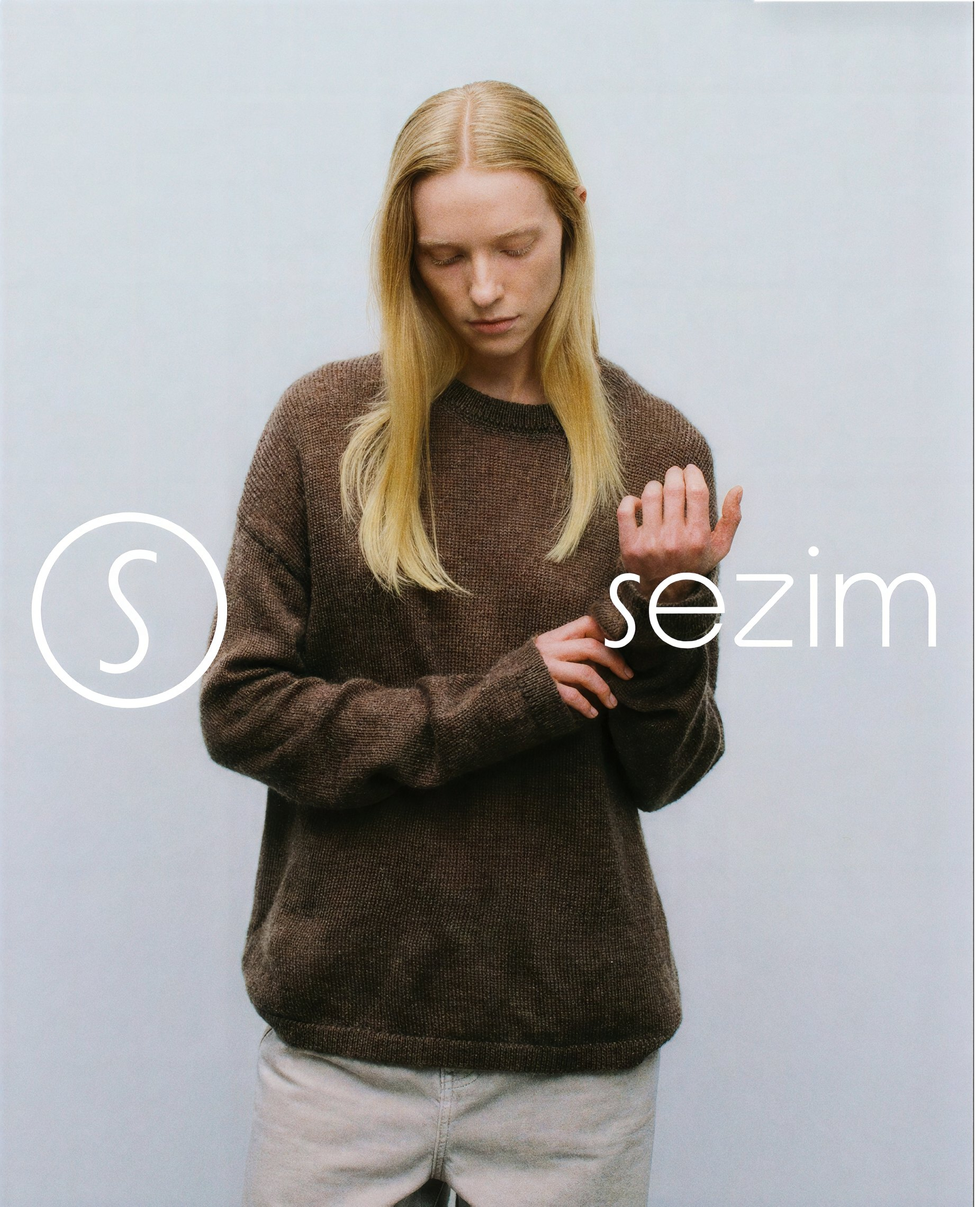
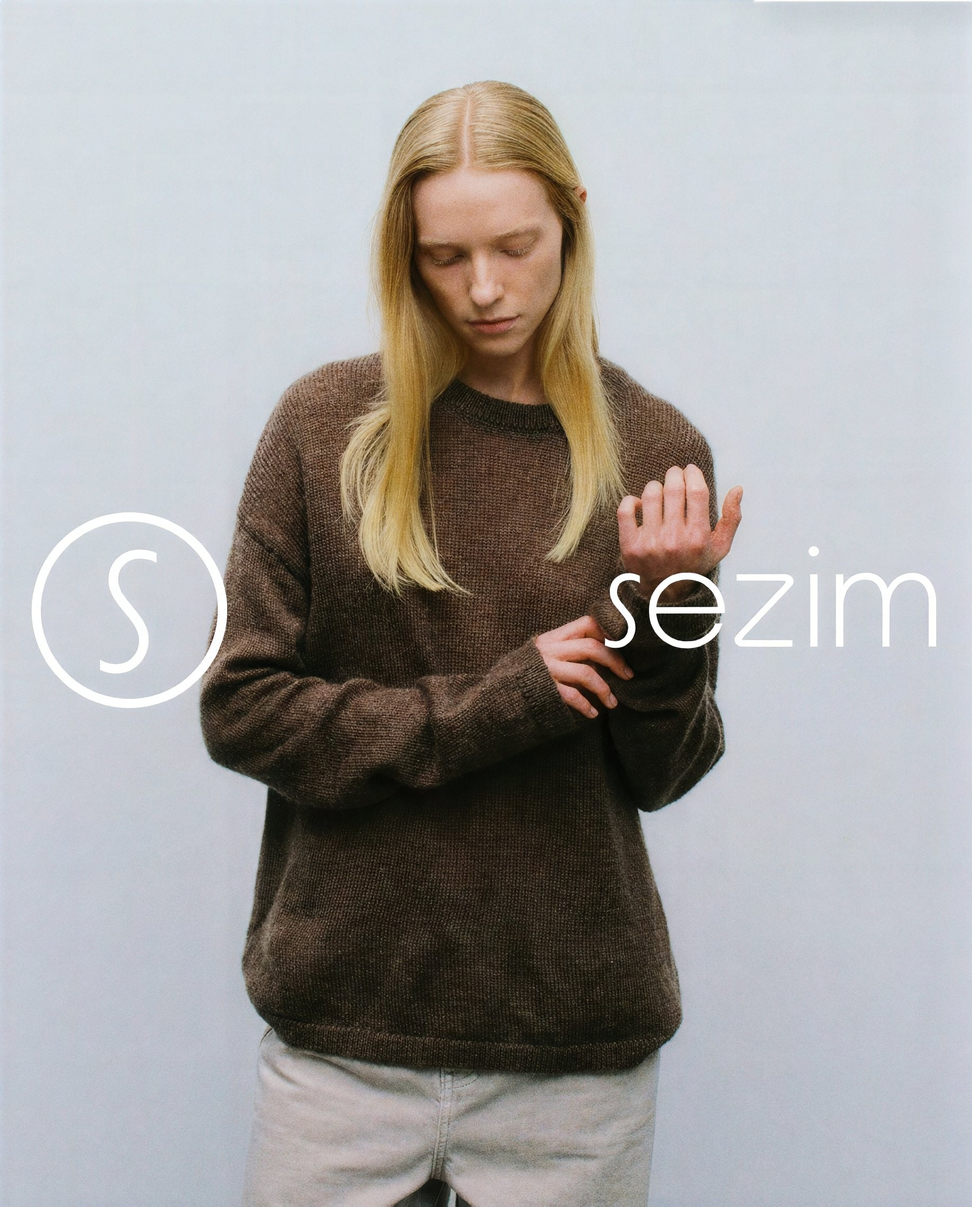
Sezim: trim dark edge line on the girl frame
Claude-Session: https://claude.ai/code/session_01GGQjxjoJKcpwRjderqpNyi

diff --git a/projects.js b/projects.js
@@ -71,7 +71,7 @@ const SEZIM_CASE = {
   more: {"en":["Sezim means “feeling” in Kazakh. The brand makes clean, minimal clothes without prints that become an emotional gift — each piece carries a message for a loved one on its inner side, words that are hard to say out loud.","The identity is as quiet as the clothes: a thin-line S in a circle, a light wordmark, warm whites and soft greys, and photography about closeness — hands, hugs, family. Everyday things become important and special."],"ru":["Sezim по-казахски — «чувство». Бренд делает чистые минималистичные вещи без принтов, которые становятся эмоциональным подарком: на внутренней стороне каждой — послание близкому человеку, слова, которые сложно сказать вслух.","Айдентика такая же тихая, как одежда: тонкая S в круге, лёгкий логотип, тёплые белые и мягкие серые, фотографии о близости — руки, объятия, семья. Вещи для обычной жизни становятся важными и особенными."],"kk":["Sezim — «сезім». Бренд баспасыз, таза минималистік киім жасайды, ол эмоциялық сыйлыққа айналады: әр заттың ішкі жағында жақын адамға арналған жолдау бар — дауыстап айту қиын сөздер.","Айдентика киімнің өзі сияқты тыныш: шеңбердегі жіңішке S, жеңіл логотип, жылы ақ және жұмсақ сұр түстер, жақындық туралы фотосуреттер — қолдар, құшақ, отбасы. Күнделікті заттар маңызды әрі ерекше болады."]},
   goal: {"en":["Build a brand about relationships, where clothing is a gift with an important message for someone close.","Create a calm system — sign, wordmark, colour and photography — for labels, packaging, retail and outdoor."],"ru":["Создать бренд о взаимоотношениях, где одежда — подарок с важным сообщением близкому человеку.","Собрать спокойную систему — знак, логотип, цвет и фотостиль — для бирок, упаковки, ритейла и наружной рекламы."],"kk":["Киім жақын адамға маңызды жолдауы бар сыйлық болатын қарым-қатынас туралы бренд жасау.","Жапсырмаларға, қаптамаға, ритейлге және сыртқы жарнамаға арналған сабырлы жүйе құру — белгі, логотип, түс және фотостиль."]},
   info: {"en":"Brand platform and identity: sign and wordmark, “kózge kórinbeitin” descriptor, colour palette, typography, woven labels, hang tags, gift boxes, shopping bags, envelopes and stickers, business cards, posters, outdoor and social media.","ru":"Бренд-платформа и айдентика: знак и логотип, дескриптор «kózge kórinbeitin», палитра, шрифты, тканые лейблы, навесные бирки, подарочные коробки, пакеты, конверты и наклейки, визитки, постеры, наружная реклама и соцсети.","kk":"Бренд-платформа және айдентика: белгі мен логотип, «kózge kórinbeitin» дескрипторы, палитра, қаріптер, тоқылған жапсырмалар, ілме биркалар, сыйлық қораптары, пакеттер, конверттер мен жапсырмалар, визиткалар, постерлер, сыртқы жарнама және әлеуметтік желілер."},
-  rows: [{"eq": [["img/sezim2/z01.jpg", 1396, 1962], ["img/sezim2/z02.mp4", 1080, 1080]]}, [["img/sezim2/z03.mp4", 2400, 1492]], [["img/sezim2/z04.mp4", 1920, 1080]], {"eq": [["img/sezim2/z05.jpg", 1842, 2280], ["img/sezim2/z06.jpg", 1595, 1994, {fx:"reveal", over:"img/sezim2/z06-over.svg"}]], "fr": [921, 475]}, "statement", {"eq": [["img/sezim2/z07.jpg", 1200, 1500, {fx:"reveal", over:"img/sezim2/z07-over.svg"}], ["img/sezim2/z08.jpg", 2800, 1871]], "fr": [267, 1129]}, {"eq": [null, ["img/sezim2/z09.jpg", 840, 1206], "goal"], "fr": [278, 420, 706]}, {"eq": [["img/sezim2/z10.jpg", 1080, 1350, {fx:"unblur", over:"img/sezim2/z10-over.png"}], ["img/sezim2/z11.svg", 698, 873]]}, {"eq": [["img/sezim2/z12.jpg", 2400, 1933], ["img/sezim2/z13.jpg", 1800, 1887]], "fr": [981, 415]}, [["img/sezim2/z14.jpg", 2808, 1646]], {"eq": [["img/sezim2/z15.svg", 698, 873], ["img/sezim2/z16.jpg", 1595, 1994, {fx:"reveal", over:"img/sezim2/z16-over.svg"}]]}, [["img/sezim2/z17.jpg", 2808, 1228]], {"eq": [["img/sezim2/z18.jpg", 1842, 2280], ["img/sezim2/z19.jpg", 1095, 1331, {fx:"reveal", over:"img/sezim2/z19-over.svg"}]], "fr": [921, 475]}, {"eq": [["img/sezim2/z20.jpg", 776, 416], ["img/sezim2/z21.mp4", 640, 642], ["img/sezim2/z22.jpg", 952, 1502]], "fr": [388, 524, 476]}, {"eq": [["img/sezim2/z23.jpg", 1846, 1862], ["img/sezim2/z24.jpg", 946, 966]], "fr": [923, 473]}],
+  rows: [{"eq": [["img/sezim2/z01.jpg", 1396, 1962], ["img/sezim2/z02.mp4", 1080, 1080]]}, [["img/sezim2/z03.mp4", 2400, 1492]], [["img/sezim2/z04.mp4", 1920, 1080]], {"eq": [["img/sezim2/z05.jpg", 1836, 2280], ["img/sezim2/z06.jpg", 1595, 1994, {fx:"reveal", over:"img/sezim2/z06-over.svg"}]], "fr": [921, 475]}, "statement", {"eq": [["img/sezim2/z07.jpg", 1200, 1500, {fx:"reveal", over:"img/sezim2/z07-over.svg"}], ["img/sezim2/z08.jpg", 2800, 1871]], "fr": [267, 1129]}, {"eq": [null, ["img/sezim2/z09.jpg", 840, 1206], "goal"], "fr": [278, 420, 706]}, {"eq": [["img/sezim2/z10.jpg", 1080, 1350, {fx:"unblur", over:"img/sezim2/z10-over.png"}], ["img/sezim2/z11.svg", 698, 873]]}, {"eq": [["img/sezim2/z12.jpg", 2400, 1933], ["img/sezim2/z13.jpg", 1800, 1887]], "fr": [981, 415]}, [["img/sezim2/z14.jpg", 2808, 1646]], {"eq": [["img/sezim2/z15.svg", 698, 873], ["img/sezim2/z16.jpg", 1595, 1994, {fx:"reveal", over:"img/sezim2/z16-over.svg"}]]}, [["img/sezim2/z17.jpg", 2808, 1228]], {"eq": [["img/sezim2/z18.jpg", 1842, 2280], ["img/sezim2/z19.jpg", 1095, 1331, {fx:"reveal", over:"img/sezim2/z19-over.svg"}]], "fr": [921, 475]}, {"eq": [["img/sezim2/z20.jpg", 776, 416], ["img/sezim2/z21.mp4", 640, 642], ["img/sezim2/z22.jpg", 952, 1502]], "fr": [388, 524, 476]}, {"eq": [["img/sezim2/z23.jpg", 1846, 1862], ["img/sezim2/z24.jpg", 946, 966]], "fr": [923, 473]}],
   carousel: [],
 };
 

diff --git a/case.html b/case.html
@@ -16,7 +16,7 @@
 <link rel="apple-touch-icon" href="img/apple-touch-icon2.png">
 <link rel="preconnect" href="https://fonts.googleapis.com">
 <link rel="stylesheet" href="https://fonts.googleapis.com/css2?family=Tinos&display=swap">
-<link rel="stylesheet" href="site.css?v=1793817974">
+<link rel="stylesheet" href="site.css?v=1793818051">
 <style>
 /* Страница проекта: начало и карусель — из варианта «История» (по мотивам mouthwash.studio),
    мелкие кадры, мелкий текст, навигация и низ — из варианта «Галерея» (по макету OI.LAB.pdf / gaadesign.studio).
@@ -204,8 +204,8 @@ dialog.card::backdrop{background:rgba(0,0,0,.1);-webkit-backdrop-filter:blur(10p
 <div class="big" id="big" role="img" aria-label="Oilab"></div>
 
 <script src="https://cdnjs.cloudflare.com/ajax/libs/lottie-web/5.12.2/lottie_light.min.js"></script>
-<script src="i18n.js?v=1793817974" charset="utf-8"></script>
-<script src="projects.js?v=1793817974" charset="utf-8"></script>
+<script src="i18n.js?v=1793818051" charset="utf-8"></script>
+<script src="projects.js?v=1793818051" charset="utf-8"></script>
 <script>
 // Раскладка: размеры ячеек в пикселях макета при экране 1500px. Фото проекта (case.images) встают по порядку,
 // первая ячейка — обложка с главной; пустые ячейки показывают нужный размер фото.

diff --git a/gallery.html b/gallery.html
@@ -16,7 +16,7 @@
 <link rel="apple-touch-icon" href="img/apple-touch-icon2.png">
 <link rel="preconnect" href="https://fonts.googleapis.com">
 <link rel="stylesheet" href="https://fonts.googleapis.com/css2?family=Tinos&display=swap">
-<link rel="stylesheet" href="site.css?v=1793817974">
+<link rel="stylesheet" href="site.css?v=1793818051">
 <style>
 /* Gallery по макету Frame 20: свободная раскладка крупных кадров (позиции и размеры — из макета, в долях ширины 1390px),
    подписи «проект / услуги», внизу лента всех проектов */
@@ -67,8 +67,8 @@
 <div class="big" id="big" role="img" aria-label="Oilab"></div>
 
 <script src="https://cdnjs.cloudflare.com/ajax/libs/lottie-web/5.12.2/lottie_light.min.js"></script>
-<script src="i18n.js?v=1793817974" charset="utf-8"></script>
-<script src="projects.js?v=1793817974" charset="utf-8"></script>
+<script src="i18n.js?v=1793818051" charset="utf-8"></script>
+<script src="projects.js?v=1793818051" charset="utf-8"></script>
 <script>
 // Галерея собирается заново при каждом открытии: случайные кадры упакованных проектов
 // раскладываются по шаблонам рядов из макета Frame 20 (позиции и ширины — в пикселях макета шириной 1390).

diff --git a/about.html b/about.html
@@ -16,7 +16,7 @@
 <link rel="apple-touch-icon" href="img/apple-touch-icon2.png">
 <link rel="preconnect" href="https://fonts.googleapis.com">
 <link rel="stylesheet" href="https://fonts.googleapis.com/css2?family=Tinos&display=swap">
-<link rel="stylesheet" href="site.css?v=1793817974">
+<link rel="stylesheet" href="site.css?v=1793818051">
 <style>
 /* About по структуре gaadesign.studio/info/about: студия → основатель → принципы (раскрываются) → услуги → клиенты → признание → контакт.
    Сетка сайта: подпись раздела в первой колонке из 4, содержание — в колонках 2–4 */
@@ -108,8 +108,8 @@
 <div class="big" id="big" role="img" aria-label="Oilab"></div>
 
 <script src="https://cdnjs.cloudflare.com/ajax/libs/lottie-web/5.12.2/lottie_light.min.js"></script>
-<script src="i18n.js?v=1793817974" charset="utf-8"></script>
-<script src="projects.js?v=1793817974" charset="utf-8"></script>
+<script src="i18n.js?v=1793818051" charset="utf-8"></script>
+<script src="projects.js?v=1793818051" charset="utf-8"></script>
 <script>
 // Тексты страницы — в i18n.js (ключи a.*)
 

diff --git a/index.html b/index.html
@@ -17,7 +17,7 @@
 <link rel="apple-touch-icon" href="img/apple-touch-icon2.png">
 <link rel="preconnect" href="https://fonts.googleapis.com">
 <link rel="stylesheet" href="https://fonts.googleapis.com/css2?family=Tinos&display=swap">
-<link rel="stylesheet" href="site.css?v=1793817974">
+<link rel="stylesheet" href="site.css?v=1793818051">
 <style>
 /* Главная: манифест и сетка проектов. Общие токены, шапка и футер — в site.css */
 
@@ -123,8 +123,8 @@
 <div class="big" id="big" role="img" aria-label="Oilab"></div>
 
 <script src="https://cdnjs.cloudflare.com/ajax/libs/lottie-web/5.12.2/lottie_light.min.js"></script>
-<script src="i18n.js?v=1793817974" charset="utf-8"></script>
-<script src="projects.js?v=1793817974" charset="utf-8"></script>
+<script src="i18n.js?v=1793818051" charset="utf-8"></script>
+<script src="projects.js?v=1793818051" charset="utf-8"></script>
 <script>
 // hover: вторая фотография проекта (или .mp4) — плавно сменяет обложку при наведении. Пример: {name:"Кайрат", img:"p01", hover:"img/p01-2.jpg", tags:[...]}
 const grid = document.getElementById('grid');
